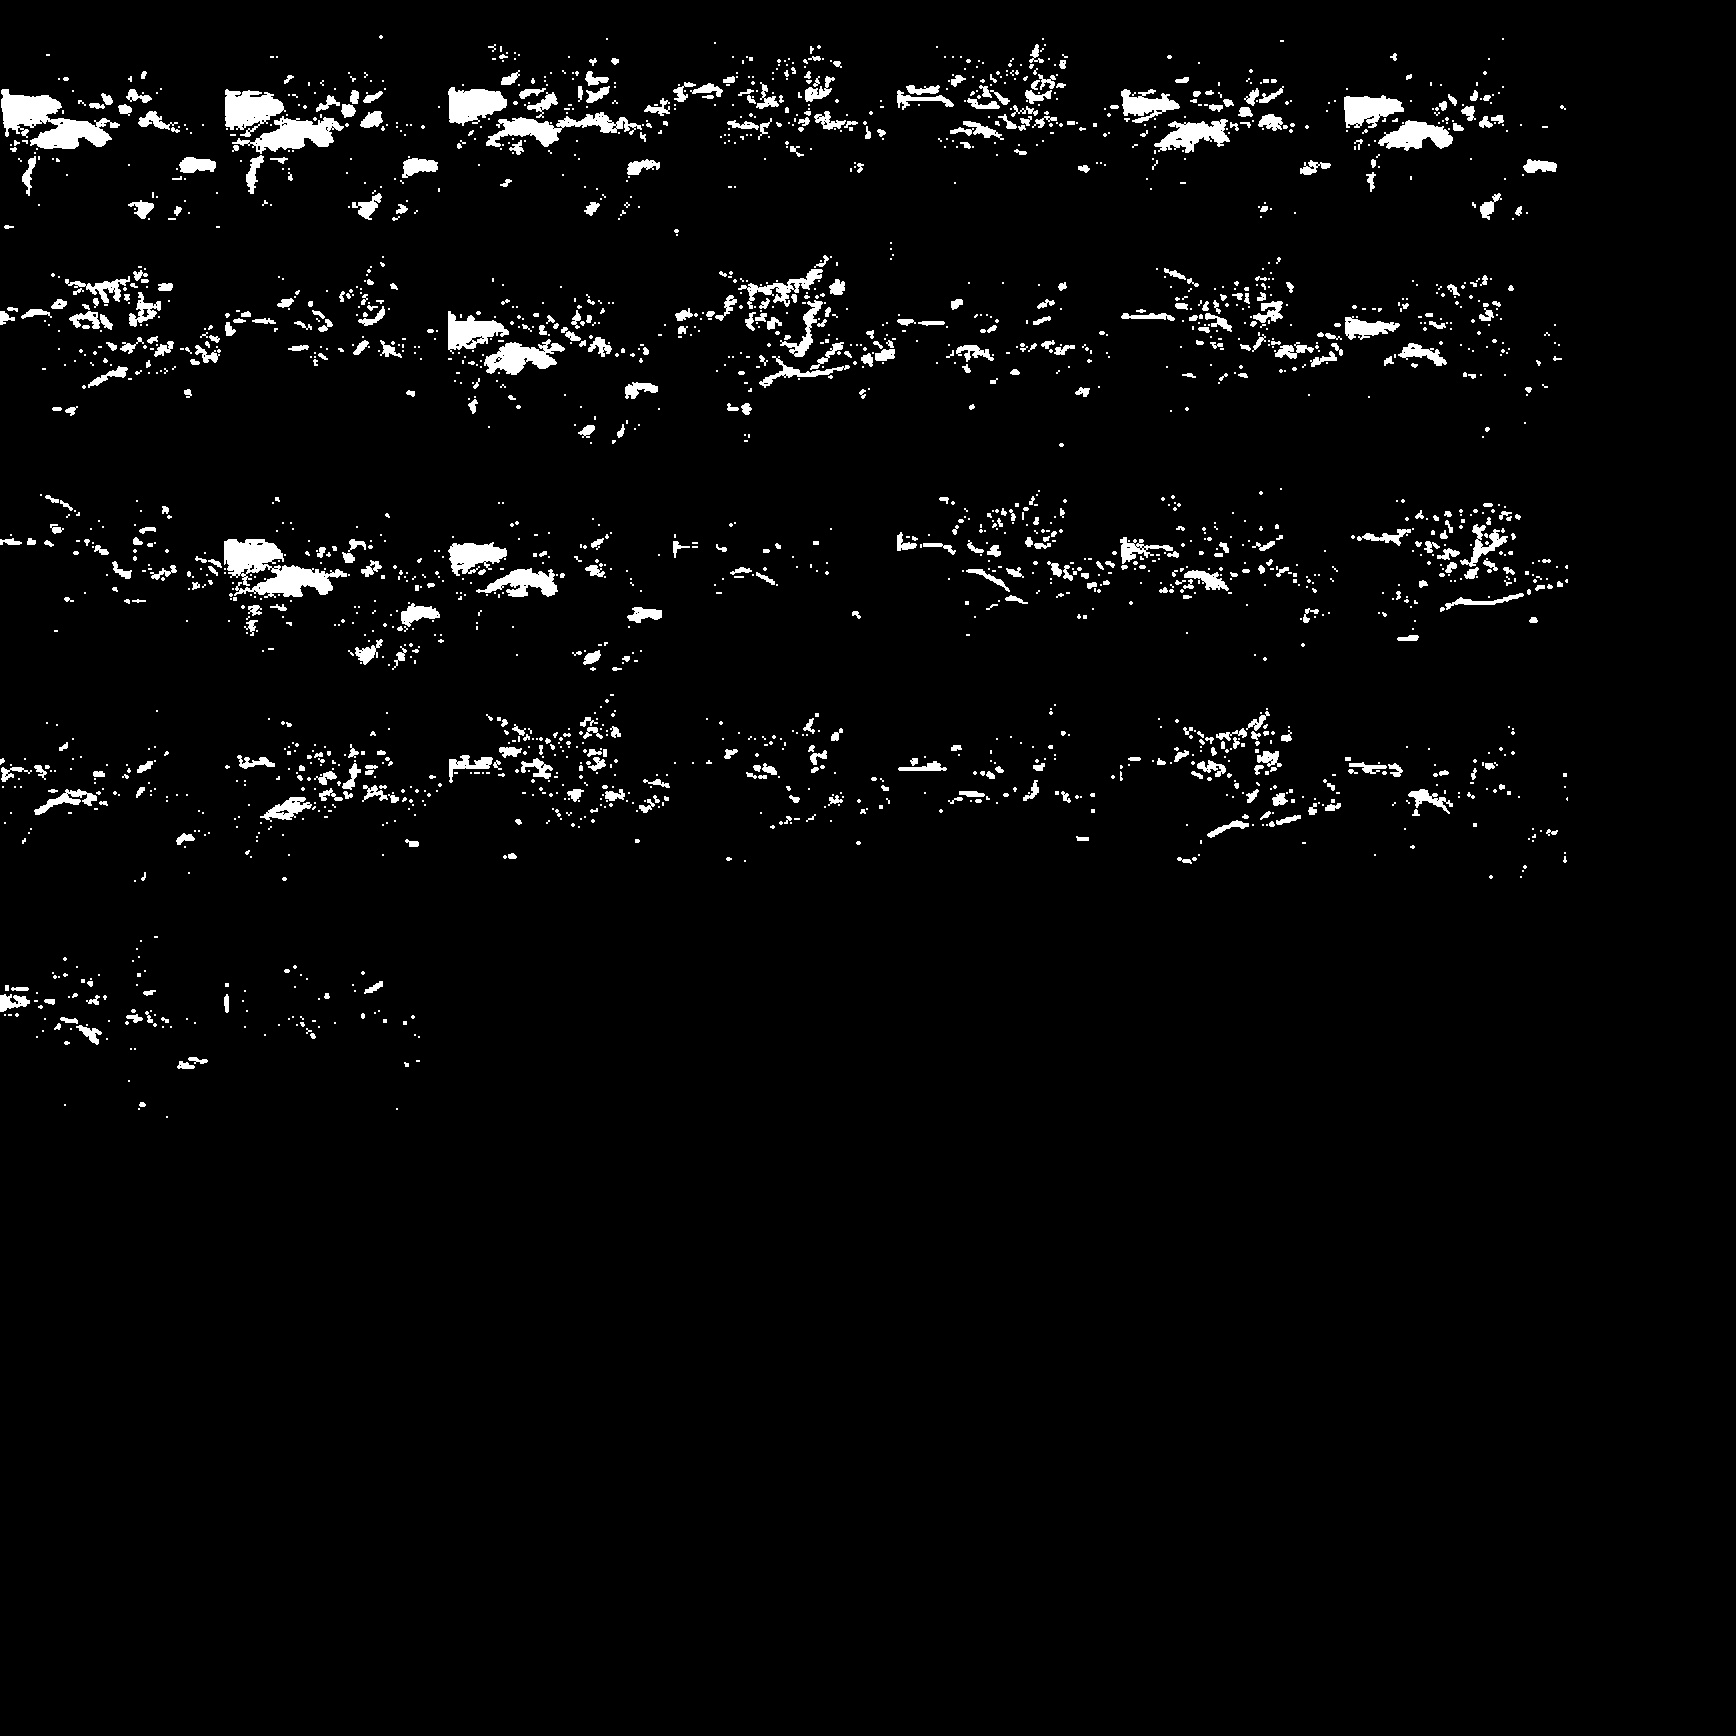
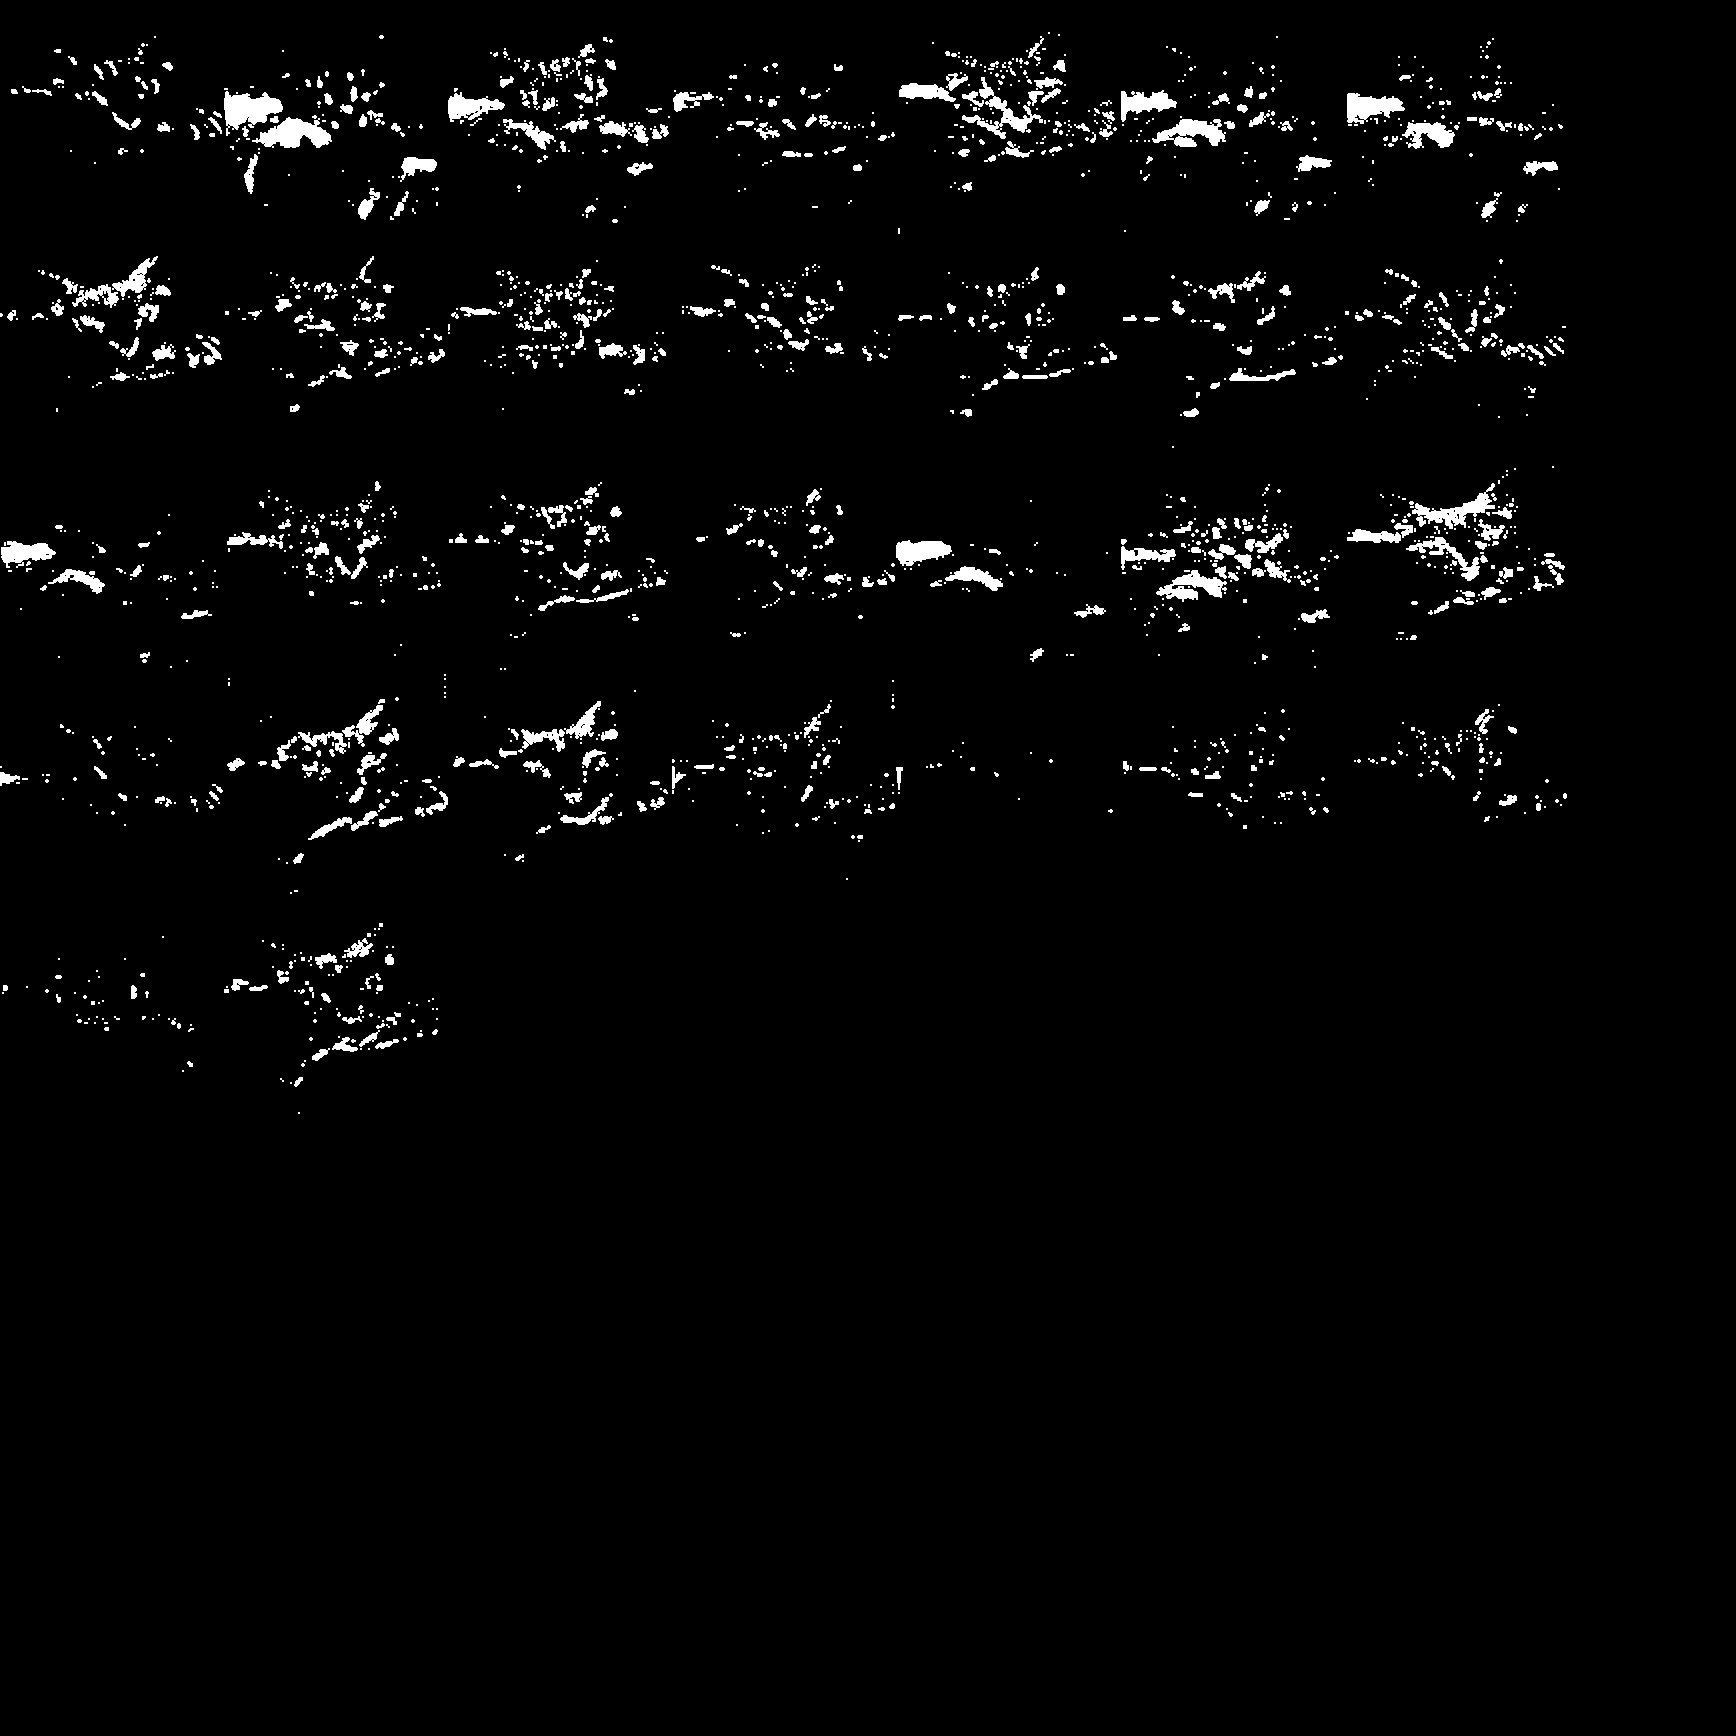
add overlay results

diff --git a/visualbackprop.py b/visualbackprop.py
@@ -31,7 +31,8 @@ hooks=[]
 FEAT_KEEP = 30  # Feature Maps to show
 FEAT_SIZE = 224  # Size of feature maps to show
 FEAT_MAPS_DIR = 'feat_maps'  # dir. to save feat maps
-VBP_DIR = 'VBP_results'
+VBP_DIR = 'VBP_results'  # dir. to save VBP results
+OVERLAY_DIR = "overlay"  # dir. to save overlay results
 
 
 def normalize_gamma(image, gamma=1.0):
@@ -266,14 +267,13 @@ if __name__ == "__main__":
 	BASE_DIR = os.path.dirname(os.path.abspath(os.path.dirname('__dir__')))
 	IMG_DIR = './image'
 	# MODEL_DIR = BASE_DIR + '/pretrained_model'
-	IMG_NAME = 'cat2.jpg'
+	IMG_NAME = 'cat1.jpg'
 
 
 	image = cv2.imread(IMG_DIR+'/'+IMG_NAME)
 	image = cv2.resize(image, (224, 224))
 
-	im = Image.fromarray(image)
-	im.save('./image/resized_' +IMG_NAME)
+	cv2.imwrite('./image/resized_' + IMG_NAME, image)
 
 	loader = transforms.Compose([
 		transforms.ToTensor(),
@@ -310,5 +310,5 @@ if __name__ == "__main__":
 	overlay_img = overlay(image, masks[mask_num - 1].numpy())
 	cv2.imshow('overlay', overlay_img)
 	cv2.moveWindow('overlay', 200, 200)
-	cv2.imwrite('overlay.png', overlay_img)
+	cv2.imwrite(OVERLAY_DIR + '/overlay_' + IMG_NAME, overlay_img)
 	cv2.waitKey(0)

diff --git a/README.md b/README.md
@@ -9,10 +9,10 @@ Detailed description of the VisualBackProp can be found in: https://arxiv.org/ab
 
 Resized Image           |  Backprop result
 :-------------------------:|:-------------------------:
-![Orig](https://github.com/eugenelet/VisualBackProp-PyTorch/blob/master/image/resized_cat1.jpg) | ![Backprop result](https://github.com/eugenelet/VisualBackProp-PyTorch/blob/master/VBP_results/out_4_cat1.jpg)
+![Orig](https://github.com/eugenelet/VisualBackProp-PyTorch/blob/master/image/resized_cat1.jpg) | ![Backprop result](https://github.com/eugenelet/VisualBackProp-PyTorch/blob/master/VBP_results/out_4_cat1.jpg) | ![Overlay](https://github.com/eugenelet/VisualBackProp-PyTorch/blob/master/overlay/overlay_cat1.jpg)
 
 ## Example 2
 
 Resized Image           |  Backprop result
 :-------------------------:|:-------------------------:
-![Orig](https://github.com/eugenelet/VisualBackProp-PyTorch/blob/master/image/resized_cat2.jpg) | ![Backprop result](https://github.com/eugenelet/VisualBackProp-PyTorch/blob/master/VBP_results/out_4_cat2.jpg)
+![Orig](https://github.com/eugenelet/VisualBackProp-PyTorch/blob/master/image/resized_cat2.jpg) | ![Backprop result](https://github.com/eugenelet/VisualBackProp-PyTorch/blob/master/VBP_results/out_4_cat2.jpg) | ![Overlay](https://github.com/eugenelet/VisualBackProp-PyTorch/blob/master/overlay/overlay_cat2.jpg)
